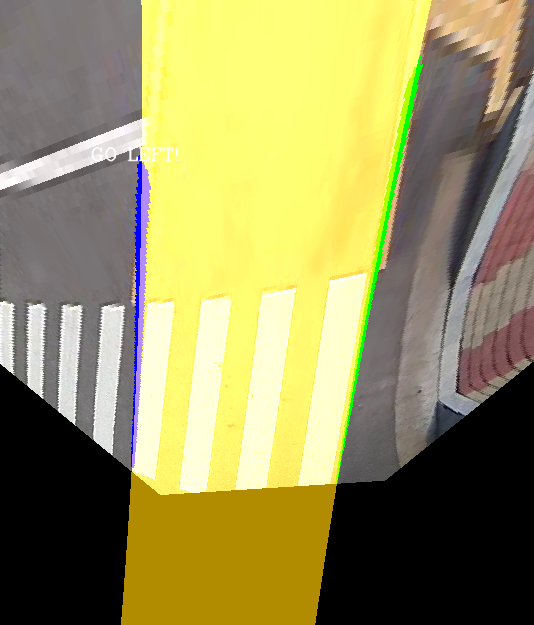
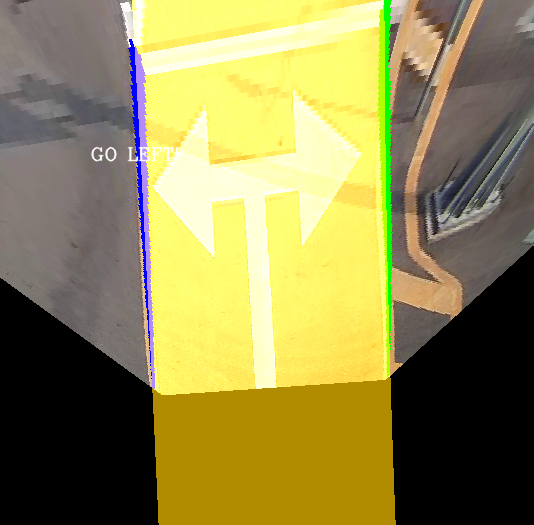
Add: 결과 사진 좀 더 추가 & README도 수정

diff --git a/cam_cali.py b/cam_cali.py
@@ -50,8 +50,8 @@ class CameraCali(object):
         points_2D = np.array([
                                 (5, 450),  #좌 하단 
                                 (600, 450),  #우 하단
-                                (265, 250),  #좌 상단
-                                (375, 250),  #우 상단
+                                (250, 250),  #좌 상단
+                                (430, 250),  #우 상단
                             ], dtype="double")
         
         # (5, 471),  #좌 하단 

diff --git a/clrnet/engine/runner.py b/clrnet/engine/runner.py
@@ -50,7 +50,7 @@ class Runner(object):
         
 
     def test(self): # test만 실행
-        try:
+        # try:
             ret, ori_img = self.cap.read() # 이미지 불러오기
             
             if ret: # 이미지가 있다면
@@ -143,8 +143,8 @@ class Runner(object):
                 print("Video 없음!")
                 return
         
-        except:
-            print("error!")
+        # except:
+        #     print("error!")
 
         
 # 차선 시각화

diff --git a/inverse_birdeyeview.py b/inverse_birdeyeview.py
@@ -6,7 +6,7 @@ from configs.clrnet.clr_resnet34_tusimple import world_x_interval, world_y_inter
 class IBE(object):
     def __init__(self, extrinsic, intrinsic):
 
-        self.world_x_max = 12
+        self.world_x_max = 11
         self.world_x_min = 0.5 # height
         self.world_y_max = 4
         self.world_y_min = -4 # width

diff --git a/get_curve.py b/get_curve.py
@@ -62,7 +62,6 @@ def get_steer(img, leftx, rightx, detect_one, detect_two):
     
     car_pos = img.shape[1]/2 # 중앙은 이미지의 중앙값
 
-    ym_per_pix =  world_x_interval # height
     xm_per_pix =  world_y_interval # width
     # -> configs에서 수정가능
 

diff --git a/detect_lane.py b/detect_lane.py
@@ -25,7 +25,6 @@ def main():
     
     cfg.load_from = 'pth파일 경로 입력' # pt파일 경로
     
-    
     cfg.resume_from = args.resume_from
     cfg.finetune_from = args.finetune_from
     cfg.view = args.view # 시각화

diff --git a/README.md b/README.md
@@ -52,7 +52,17 @@ python detect_lane.py
 외부 파라미터 값을 정확히 맞춰줘야 정확한 Bird Eye View (BEV)를 얻을 수 있다.
 
 ### Result
+![original 사진](ori.png)
+- original 사진
+
 ![Birdeyeview 결과 사진](result.png)
+- IPM을 이용한 BEV 사진
+
+![curve original 사진](ori_curve.png)
+- original curve 사진
+
+![Birdeyeview curve 결과 사진](result_curve.png)
+- BEV curve 사진
 
 ## original site
 ### CLRNet: Cross Layer Refinement Network for Lane Detection
